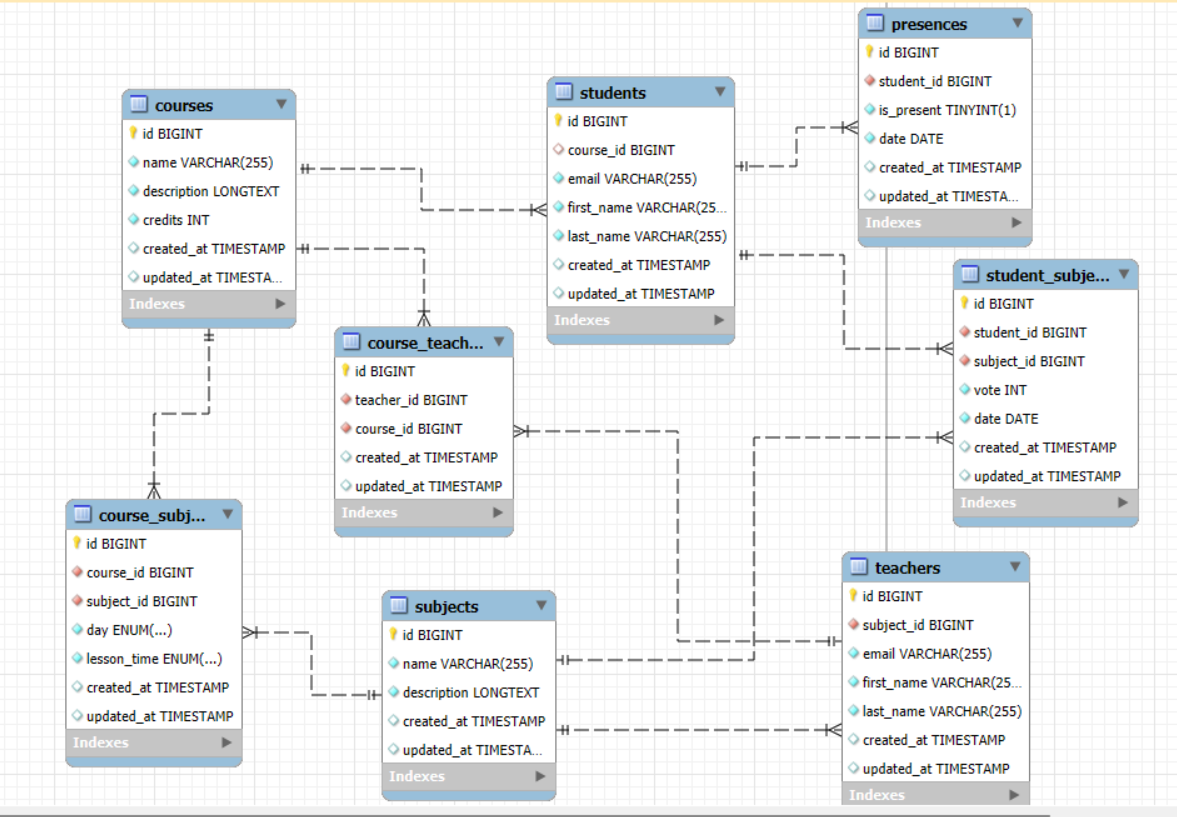
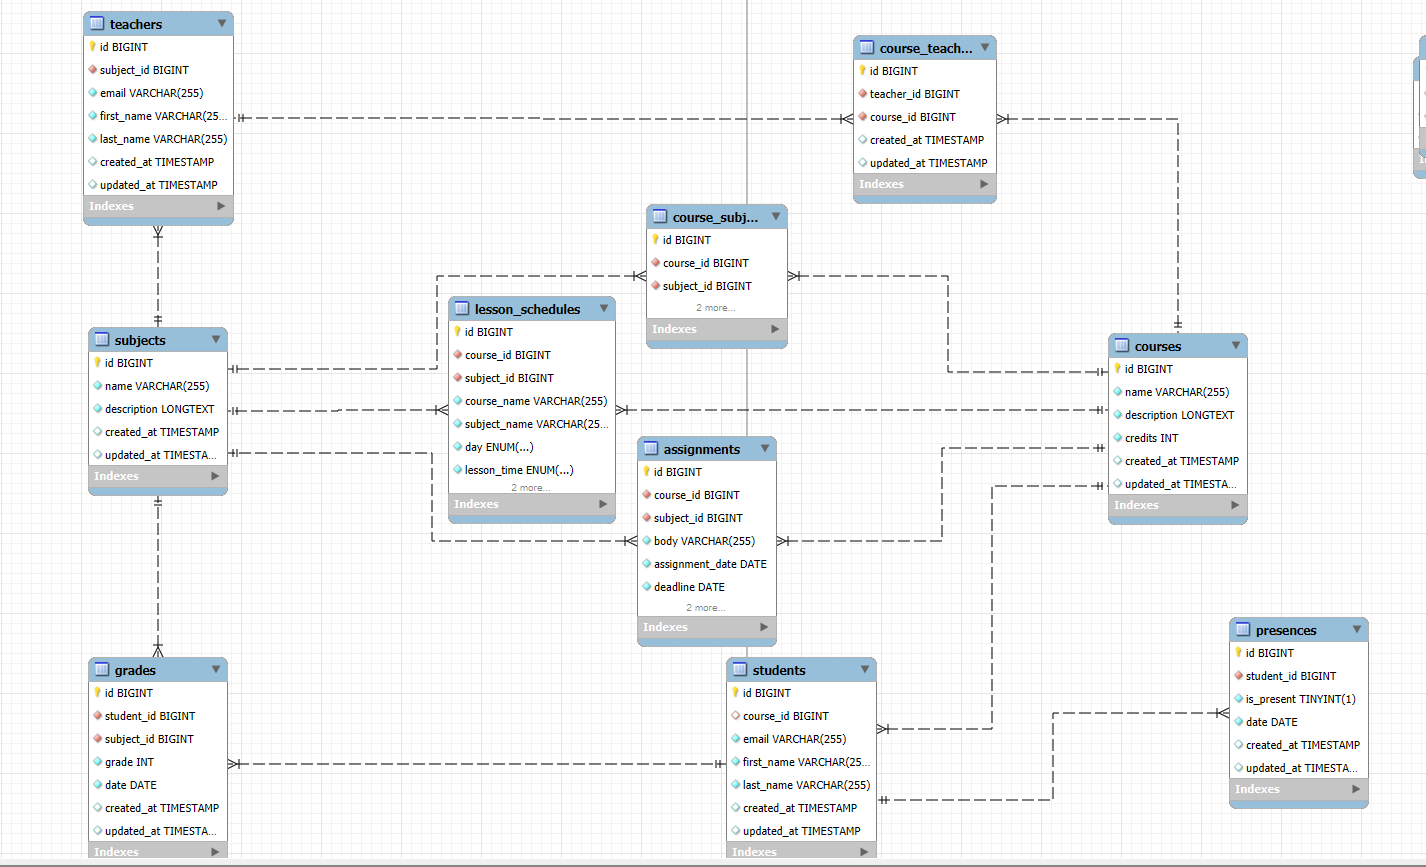
feat: implement Grade model, controller, and migration; remove StudentSubjectSeeder and update AssignmentController logic

diff --git a/Backend/app/Http/Controllers/GradeController.php b/Backend/app/Http/Controllers/GradeController.php
@@ -1,0 +1,49 @@
+<?php
+
+namespace App\Http\Controllers;
+
+use App\Models\Grade;
+use Illuminate\Http\Request;
+
+class GradeController extends Controller
+{
+    /**
+     * Display a listing of the resource.
+     */
+    public function index()
+    {
+        //
+    }
+
+    /**
+     * Store a newly created resource in storage.
+     */
+    public function store(Request $request)
+    {
+        //
+    }
+
+    /**
+     * Display the specified resource.
+     */
+    public function show(Grade $grade)
+    {
+        //
+    }
+
+    /**
+     * Update the specified resource in storage.
+     */
+    public function update(Request $request, Grade $grade)
+    {
+        //
+    }
+
+    /**
+     * Remove the specified resource from storage.
+     */
+    public function destroy(Grade $grade)
+    {
+        //
+    }
+}

diff --git a/Backend/app/Http/Controllers/Guest/AssignmentController.php b/Backend/app/Http/Controllers/Guest/AssignmentController.php
@@ -4,6 +4,7 @@ namespace App\Http\Controllers\Guest;
 
 use App\Http\Controllers\Controller;
 use App\Models\Assignment;
+use App\Models\Course;
 use App\Models\Student;
 use App\Models\Teacher;
 use Illuminate\Http\Request;
@@ -46,7 +47,8 @@ class AssignmentController extends Controller
             $student = Student::where('email', $user->email)->firstOrFail();
             $courseId = $student->course_id;
             $subjectId = request()->subject_id;
-            $student->subjects()->findOrFail($subjectId);
+
+            Course::find($student->course_id)->subjects()->findOrFail($subjectId);
 
             $assignments = Assignment::where("course_id", $courseId)->where("subject_id", $subjectId)->get();
 

diff --git a/Backend/database/migrations/2025_06_14_152111_create_grades_table.php b/Backend/database/migrations/2025_06_14_152111_create_grades_table.php
@@ -11,7 +11,7 @@ return new class extends Migration
      */
     public function up(): void
     {
-        Schema::create('student_subject', function (Blueprint $table) {
+        Schema::create('grades', function (Blueprint $table) {
             $table->id();
             $table->foreignId("student_id")->constrained();
             $table->foreignId("subject_id")->constrained();
@@ -26,6 +26,6 @@ return new class extends Migration
      */
     public function down(): void
     {
-        Schema::dropIfExists('student_subject');
+        Schema::dropIfExists('grades');
     }
 };

diff --git a/Backend/app/Models/Grade.php b/Backend/app/Models/Grade.php
@@ -1,0 +1,18 @@
+<?php
+
+namespace App\Models;
+
+use Illuminate\Database\Eloquent\Factories\HasFactory;
+use Illuminate\Database\Eloquent\Model;
+
+class Grade extends Model
+{
+    use HasFactory;
+
+    protected $fillable = [
+        'student_id',
+        'subject_id',
+        'grade',
+        'date',
+    ];
+}

diff --git a/Backend/database/factories/TeacherFactory.php b/Backend/database/factories/TeacherFactory.php
@@ -19,7 +19,6 @@ class TeacherFactory extends Factory
     public function definition(): array
     {
         $subjectsCount = Subject::all()->count();
-        // Log::info($subjectsCount);
         return [
             "subject_id" => rand(1, $subjectsCount),
             "first_name" => fake()->firstName(),

diff --git a/Backend/app/Http/Controllers/Guest/LessonScheduleController.php b/Backend/app/Http/Controllers/Guest/LessonScheduleController.php
@@ -17,7 +17,6 @@ class LessonScheduleController extends Controller
     public function index()
     {
 
-        // fixme: non utilizzare attach ma direttamente il modello LessonSchedule
         request()->validate([
             'show_week' => 'boolean',
         ]);

diff --git a/Backend/app/Models/Student.php b/Backend/app/Models/Student.php
@@ -18,13 +18,6 @@ class Student extends Model
         'email',
     ];
 
-
-
-    public function subjects()
-    {
-        return $this->belongsToMany(Subject::class);
-    }
-
     public function presences()
     {
         return $this->hasMany(Presence::class);

diff --git a/Backend/app/Http/Controllers/Admin/StudentController.php b/Backend/app/Http/Controllers/Admin/StudentController.php
@@ -161,7 +161,6 @@ class StudentController extends Controller
      */
     public function destroy(Student $student)
     {
-        $student->subjects()->detach();
         $student->deleteOrFail();
         return response()->json([], 204);
     }

diff --git a/Backend/database/seeders/DatabaseSeeder.php b/Backend/database/seeders/DatabaseSeeder.php
@@ -34,7 +34,6 @@ class DatabaseSeeder extends Seeder
 
             CourseSubjectSeeder::class,
             CourseTeacherSeeder::class,
-            StudentSubjectSeeder::class,
         ]);
 
         $teacherExample = Teacher::find(1);
